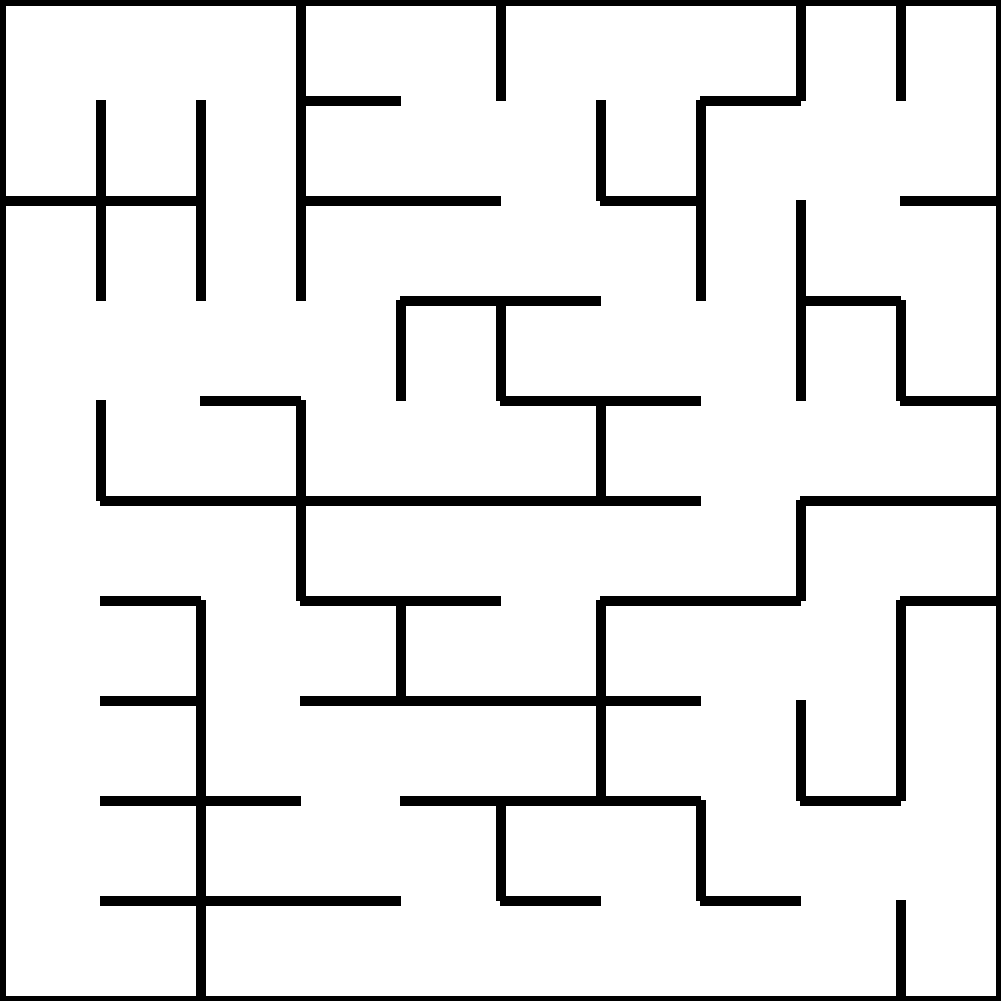
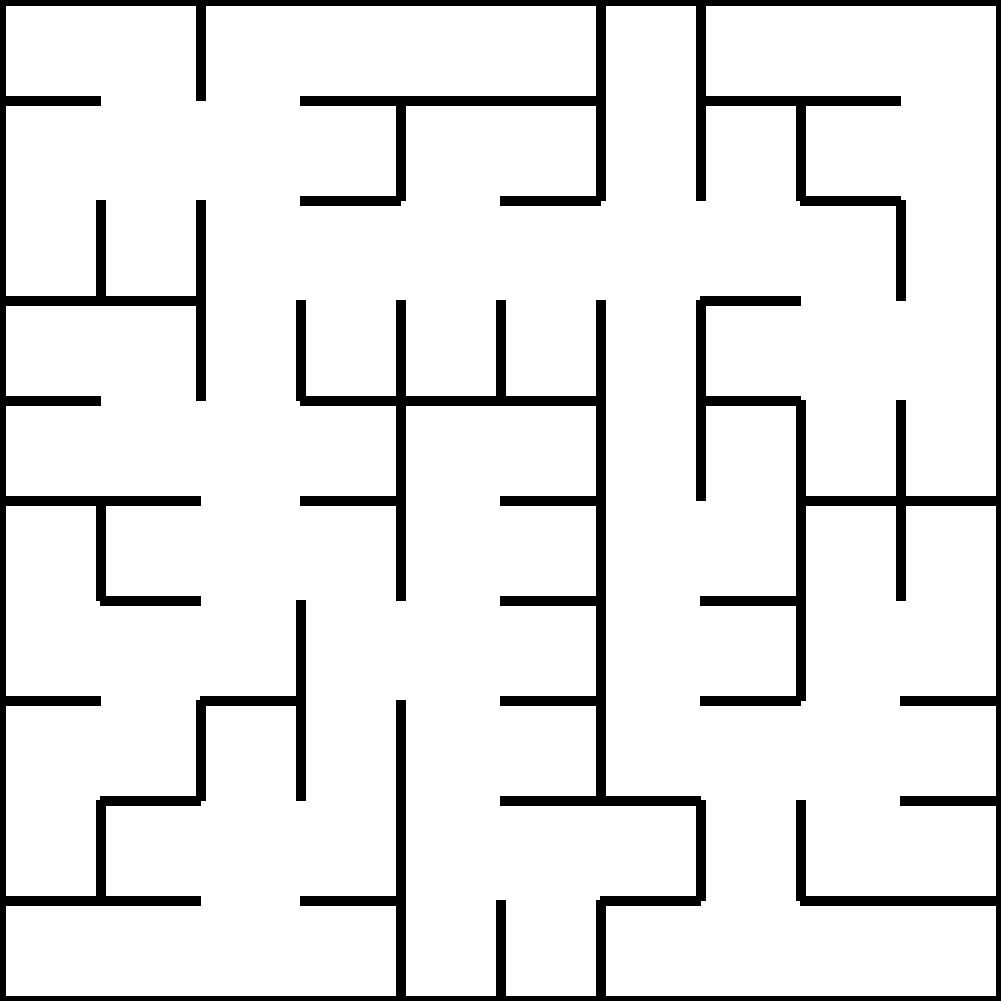
Initial commit

diff --git a/algorithms/recursiveDivision.py b/algorithms/recursiveDivision.py
@@ -1,0 +1,54 @@
+from entity import Grid
+import random
+
+
+class RecursiveDivision:
+    @staticmethod
+    def create(grid: Grid) -> None:
+
+        for cell in grid.eachCell():
+            for neighbor in cell.neighbors:
+                cell.link(neighbor, False)
+
+        RecursiveDivision.divide(0, 0, grid.rows, grid.cols, grid)
+
+    @staticmethod
+    def divide(row: int, col: int, height: int, width: int, grid: Grid):
+        # if height <= 1 or width <= 1 or height < 5 and width < 5 and random.randrange(4) == 0:  # for rooms
+        if height <= 1 or width <= 1:
+            return
+
+        if height > width:
+            RecursiveDivision.divideHorizontally(row, col, height, width, grid)
+        else:
+            RecursiveDivision.divideVertically(row, col, height, width, grid)
+
+    @staticmethod
+    def divideHorizontally(row: int, col: int, height: int, width: int, grid: Grid):
+        divideSouthOf = random.randrange(height - 1)
+        passageAt = random.randrange(width)
+
+        for x in range(width):
+            if passageAt == x:
+                continue
+
+            cell = grid.cells[row + divideSouthOf][col + x]
+            cell.unlink(cell.south)
+
+        RecursiveDivision.divide(row, col, divideSouthOf + 1, width, grid)
+        RecursiveDivision.divide(row + divideSouthOf + 1, col, height - divideSouthOf - 1, width, grid)
+
+    @staticmethod
+    def divideVertically(row: int, col: int, height: int, width: int, grid: Grid):
+        divideEastOf = random.randrange(width - 1)
+        passageAt = random.randrange(height)
+
+        for y in range(height):
+            if passageAt == y:
+                continue
+
+            cell = grid.cells[row + y][col + divideEastOf]
+            cell.unlink(cell.east)
+
+        RecursiveDivision.divide(row, col, height, divideEastOf + 1, grid)
+        RecursiveDivision.divide(row, col + divideEastOf + 1, height, width - divideEastOf - 1, grid)

diff --git a/algorithms/truePrims.py b/algorithms/truePrims.py
@@ -1,0 +1,28 @@
+from entity import Grid
+import random
+from functools import reduce
+
+
+class TruePrims:
+    @staticmethod
+    def create(grid: Grid) -> None:
+        start = grid.randomCell()
+        active = [start]
+        costs = {}
+
+        for cell in grid.eachCell():
+            costs[cell] = random.randrange(100)
+
+        while any(active):
+            cell = reduce(lambda minValue, nextValue: minValue if costs[minValue] < costs[nextValue] else nextValue,
+                          active)
+            availableNeighbors = list(filter(lambda e: len(e.links()) == 0, cell.neighbors))
+
+            if any(availableNeighbors):
+                neighbor = reduce(
+                    lambda minValue, nextValue: minValue if costs[minValue] < costs[nextValue] else nextValue,
+                    availableNeighbors)
+                cell.link(neighbor)
+                active.append(neighbor)
+            else:
+                active.remove(cell)

diff --git a/algorithms/__init__.py b/algorithms/__init__.py
@@ -1,9 +1,11 @@
 from algorithms.aldousBroder import AldousBroder
 from algorithms.binaryTree import BinaryTree
 from algorithms.growingTree import GrowingTree
+from algorithms.houstons import Houstons
 from algorithms.huntAndKill import HuntAndKill
 from algorithms.prims import Prims
 from algorithms.recursiveBacktracker import RecursiveBacktracker
+from algorithms.recursiveDivision import RecursiveDivision
 from algorithms.sidewinder import Sidewinder
+from algorithms.truePrims import TruePrims
 from algorithms.wilsons import Wilsons
-from algorithms.houstons import Houstons

diff --git a/main.py b/main.py
@@ -12,7 +12,7 @@ def main():
 def generateGridMaze(size: int):
     seed = random.randint(-sys.maxsize, sys.maxsize)
     grid = Grid(size, size, seed)
-    Houstons.create(grid)
+    TruePrims.create(grid)
     grid.toPNG()
     print("seed: %d" % seed)
 
